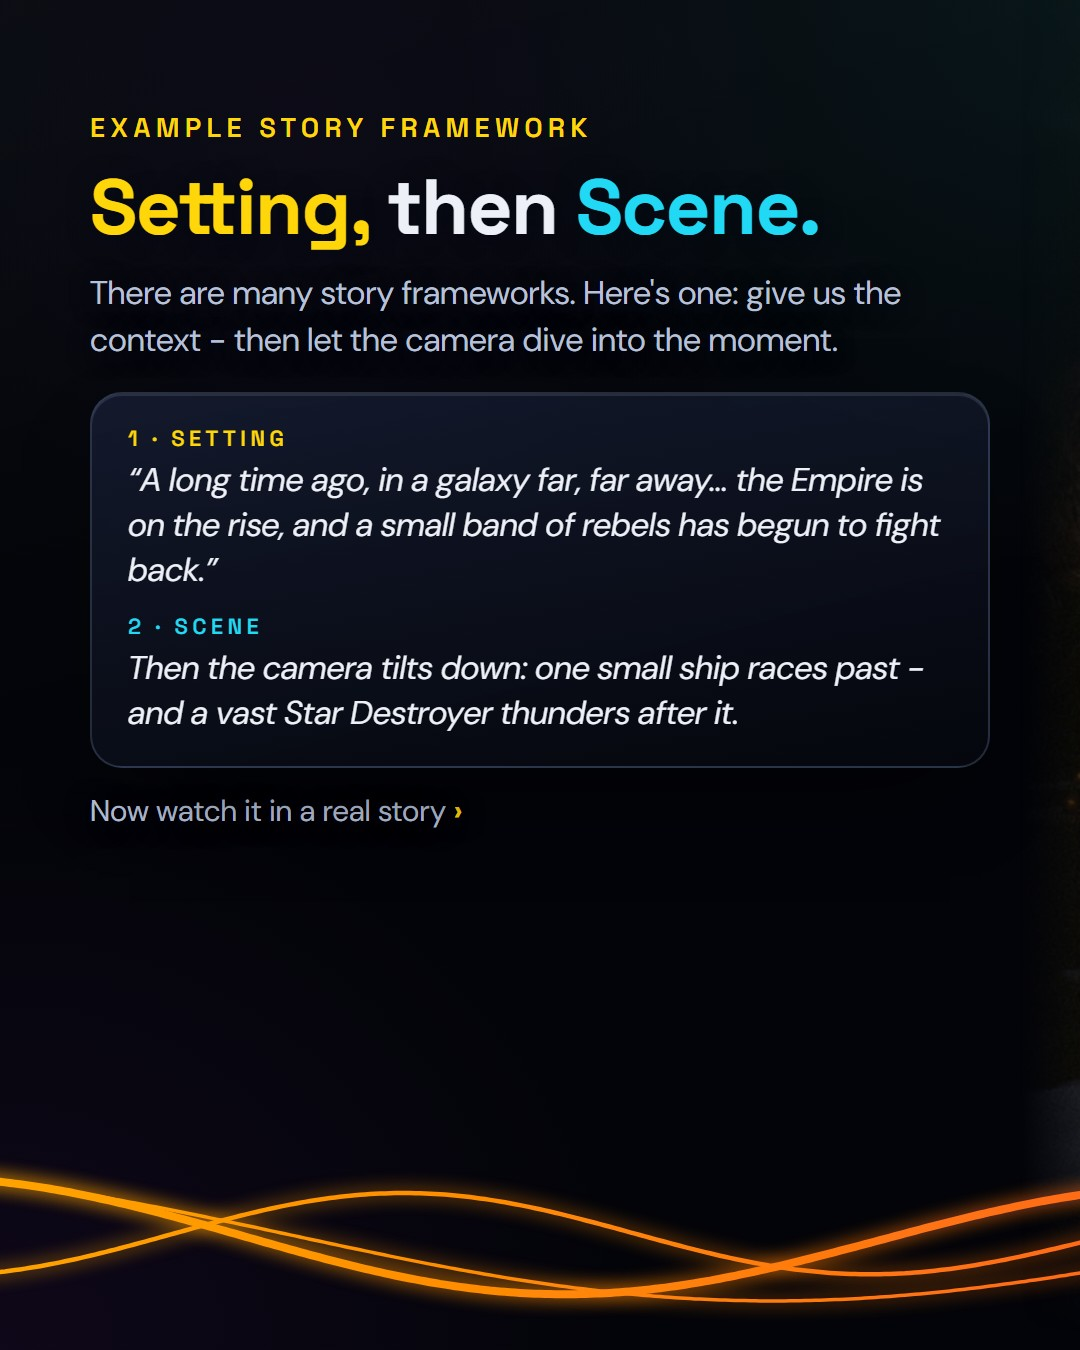
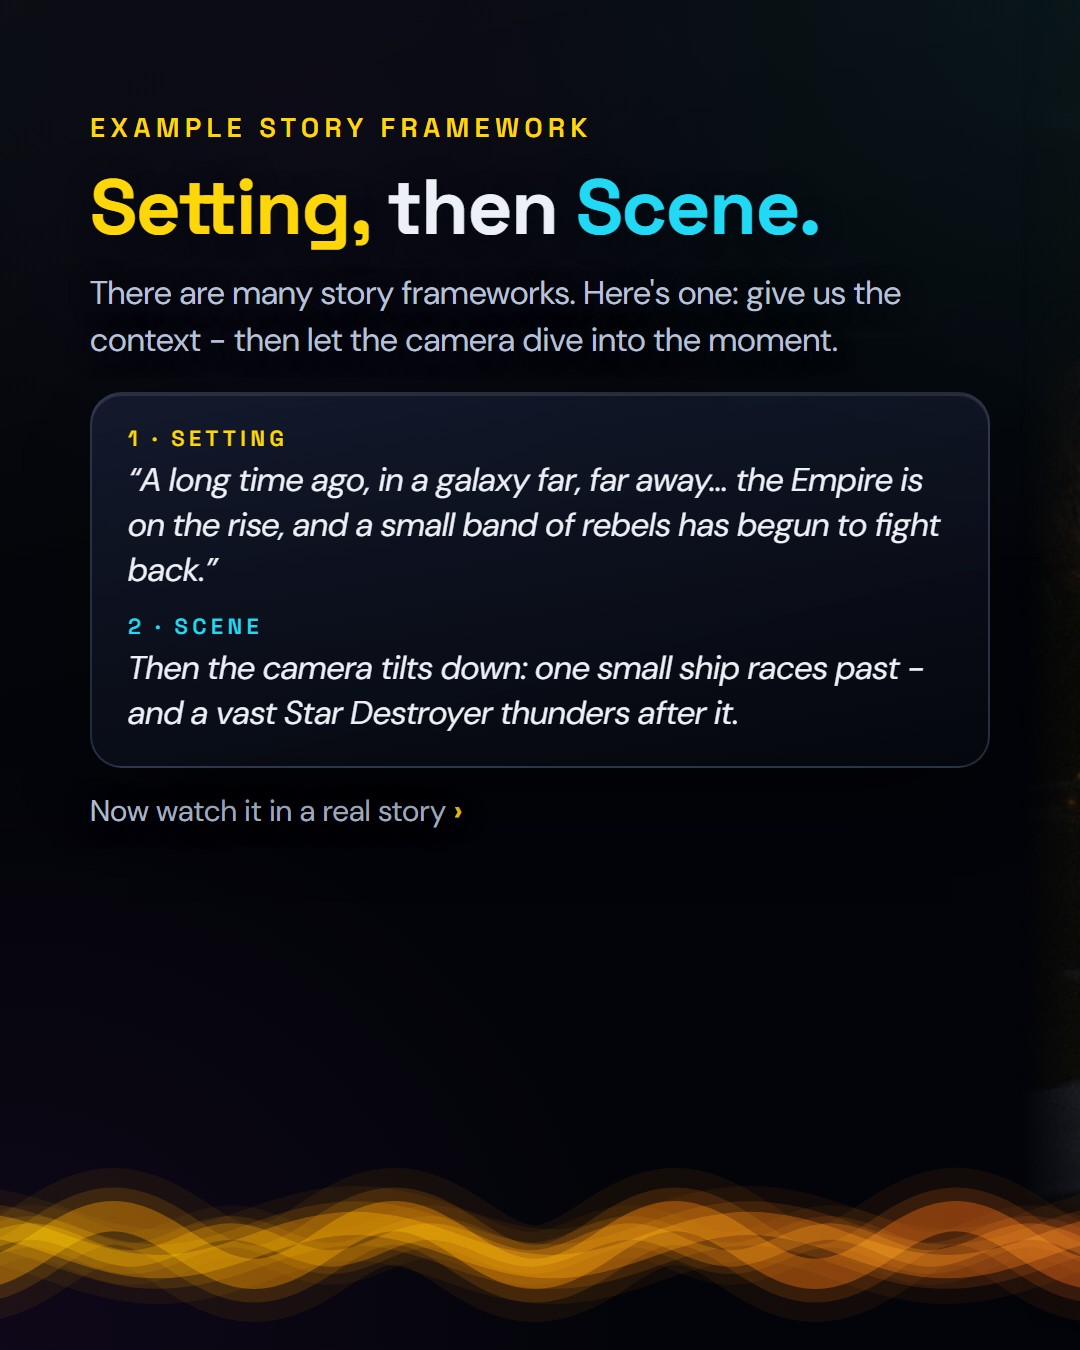
Phone deck viewer: Post 4 black - the app's hero soundwave along the foot, softer light on the cover photo

Changed region(s): [[0.0, 0.84, 1.0, 0.9956]]

diff --git a/public/d-BlBAiR0ZRDrG/post4-black.html b/public/d-BlBAiR0ZRDrG/post4-black.html
@@ -5,7 +5,7 @@ main{max-width:540px;margin:0 auto;padding:16px 16px 48px}h1{font-size:18px;marg
 .dots{display:flex;justify-content:center;gap:6px;margin:10px 0 18px}.dots i{width:6px;height:6px;border-radius:50%;background:#36406a}.dots i.on{background:#22D9F5}
 .pano{overflow-x:auto;border-radius:8px}.pano img{height:260px;display:block}h2{font-size:14px;margin:22px 0 8px;color:#B9C0D8}</style></head><body><main>
 <a href="index.html">‹ All</a><h1>Post 4 · How to Tell Epic Stories - black</h1><small>9 slides · swipe like Instagram</small><small style="display:block;margin:6px 0">Version: <a href="post4.html">Glassy gradient</a> · <a href="post4-black.html">Black</a></small>
-<div class="car" id="c"><img src="post4-black/01.jpg?v=3" alt="Slide 1"><img src="post4-black/02.jpg?v=3" alt="Slide 2"><img src="post4-black/03.jpg?v=3" alt="Slide 3"><img src="post4-black/04.jpg?v=3" alt="Slide 4"><img src="post4-black/05.jpg?v=3" alt="Slide 5"><img src="post4-black/06.jpg?v=3" alt="Slide 6"><img src="post4-black/07.jpg?v=3" alt="Slide 7"><img src="post4-black/08.jpg?v=3" alt="Slide 8"><img src="post4-black/09.jpg?v=3" alt="Slide 9"></div><div class="dots" id="d"><i></i><i></i><i></i><i></i><i></i><i></i><i></i><i></i><i></i></div>
-<h2>The whole panorama (scroll sideways)</h2><div class="pano"><img src="post4-black/panorama.jpg?v=3" alt="Full panorama"></div>
+<div class="car" id="c"><img src="post4-black/01.jpg?v=4" alt="Slide 1"><img src="post4-black/02.jpg?v=4" alt="Slide 2"><img src="post4-black/03.jpg?v=4" alt="Slide 3"><img src="post4-black/04.jpg?v=4" alt="Slide 4"><img src="post4-black/05.jpg?v=4" alt="Slide 5"><img src="post4-black/06.jpg?v=4" alt="Slide 6"><img src="post4-black/07.jpg?v=4" alt="Slide 7"><img src="post4-black/08.jpg?v=4" alt="Slide 8"><img src="post4-black/09.jpg?v=4" alt="Slide 9"></div><div class="dots" id="d"><i></i><i></i><i></i><i></i><i></i><i></i><i></i><i></i><i></i></div>
+<h2>The whole panorama (scroll sideways)</h2><div class="pano"><img src="post4-black/panorama.jpg?v=4" alt="Full panorama"></div>
 <small style="display:block;margin-top:18px">Private link - please don't share.</small></main>
 <script>const c=document.getElementById("c"),d=[...document.querySelectorAll("#d i")];const u=()=>{const i=Math.round(c.scrollLeft/c.clientWidth);d.forEach((x,k)=>x.classList.toggle("on",k===i))};c.addEventListener("scroll",u,{passive:true});u();</script></body></html>
